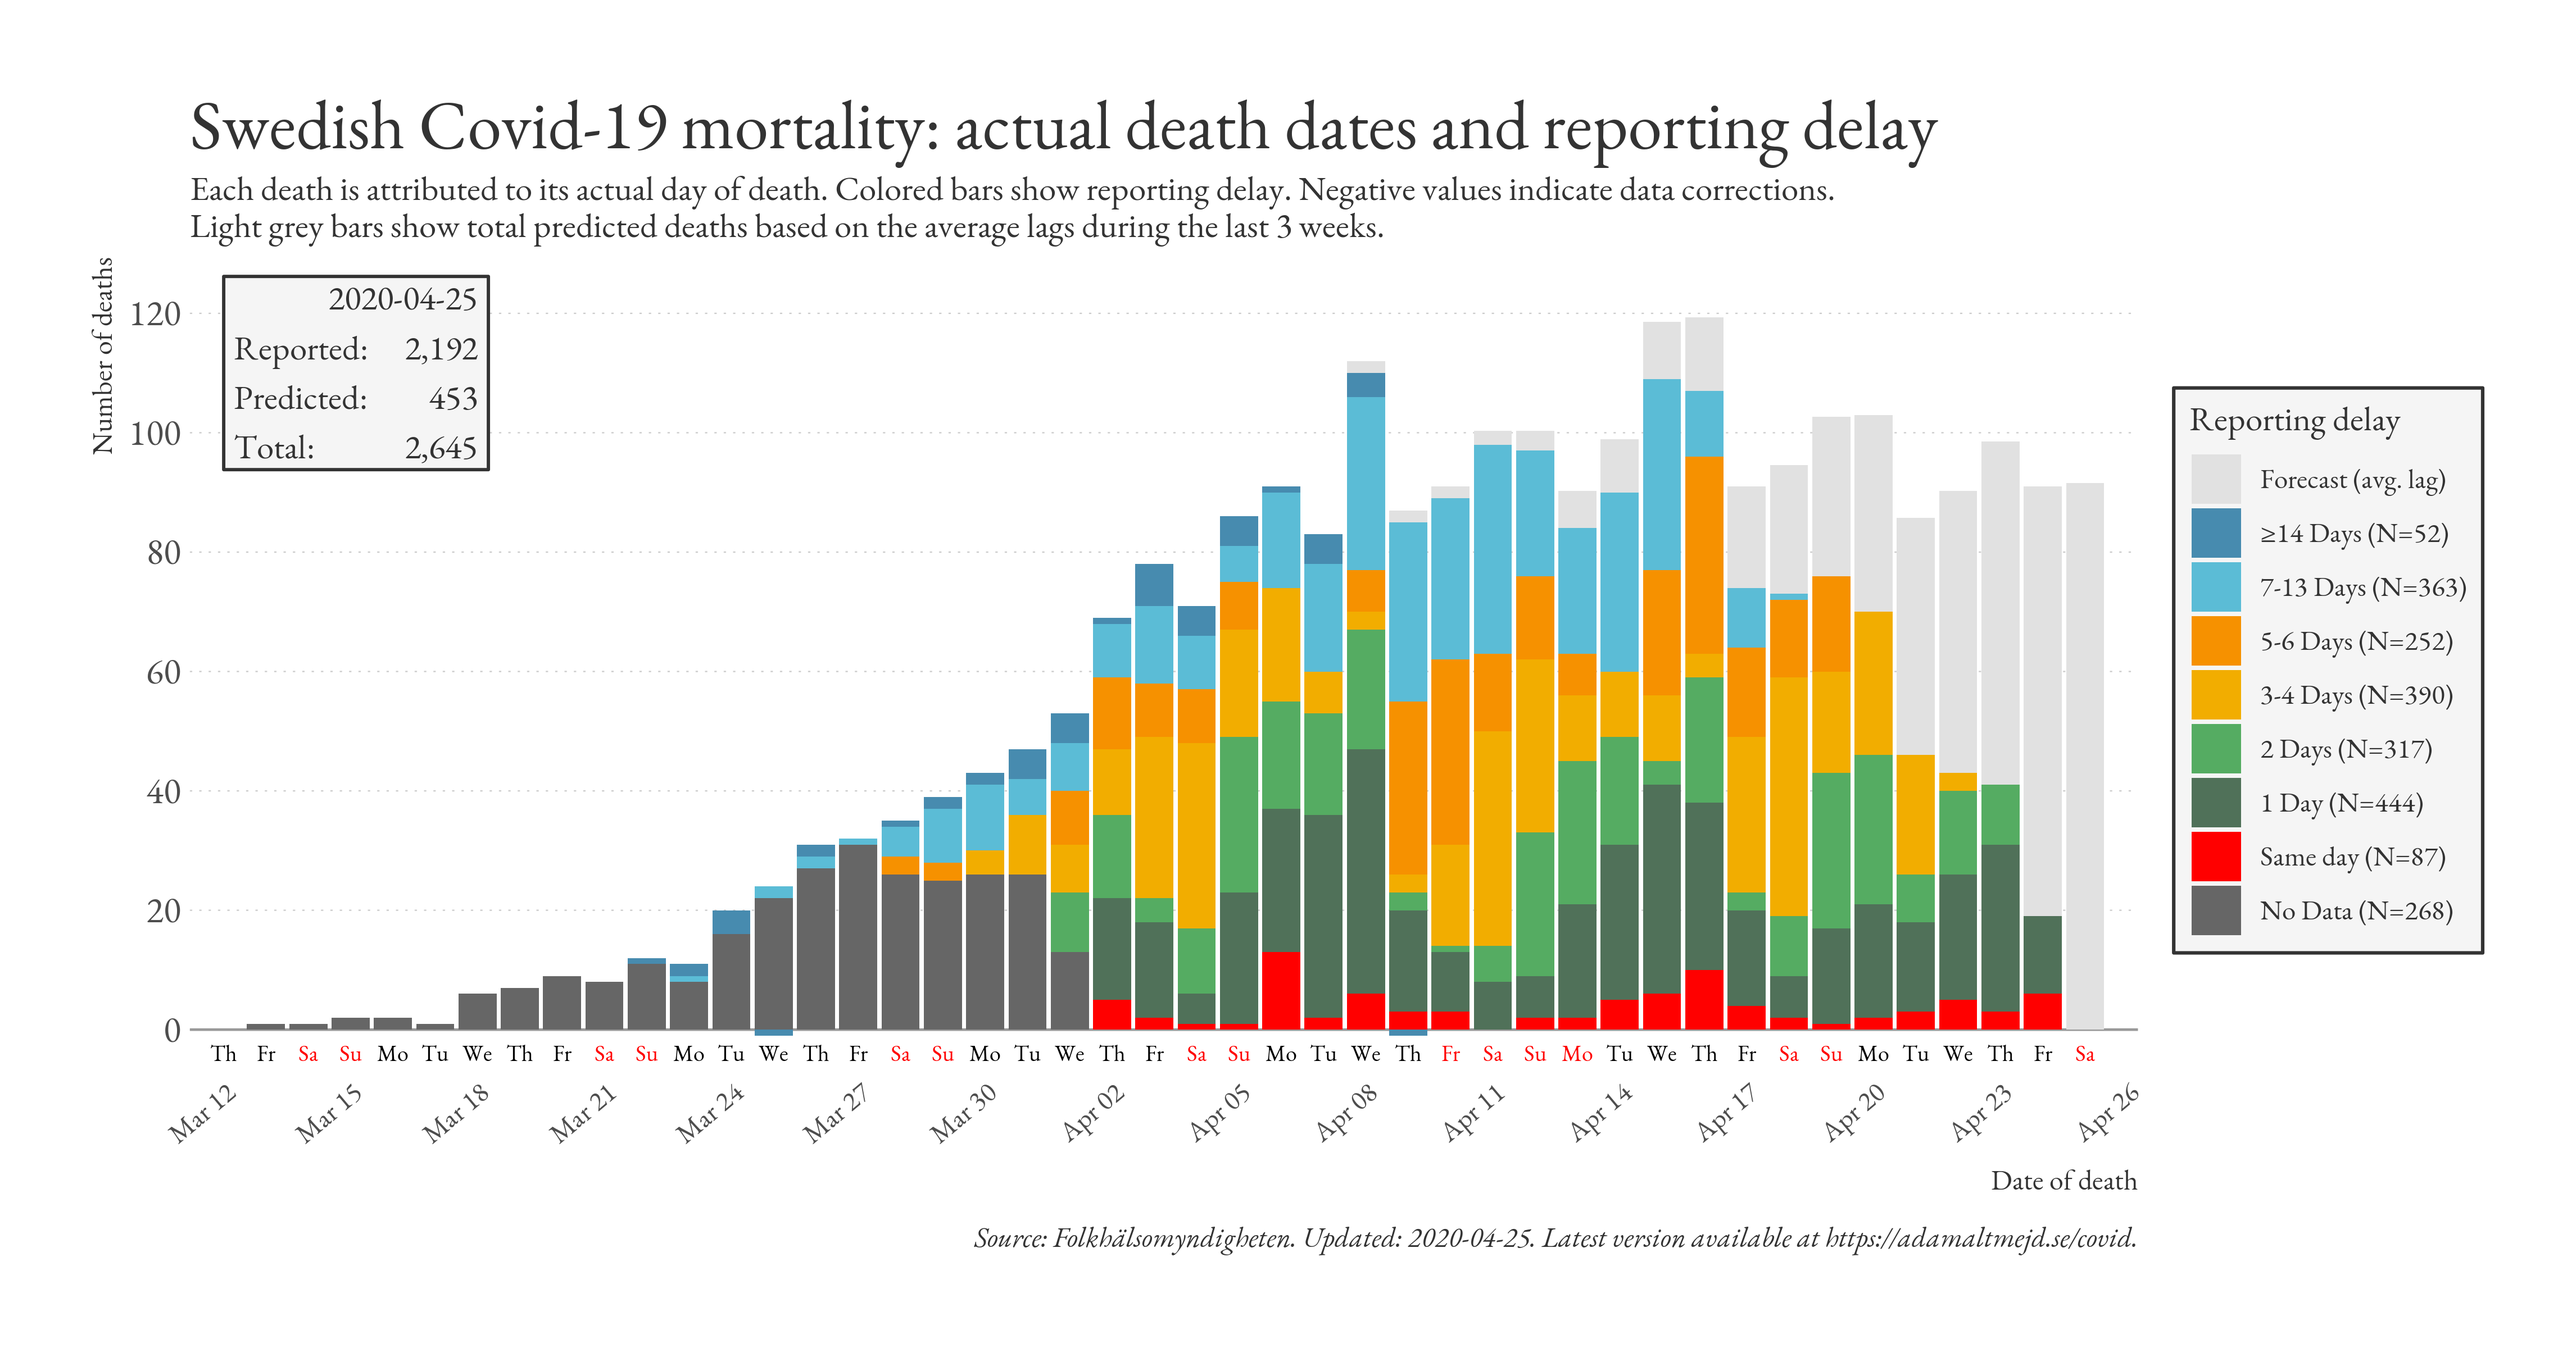
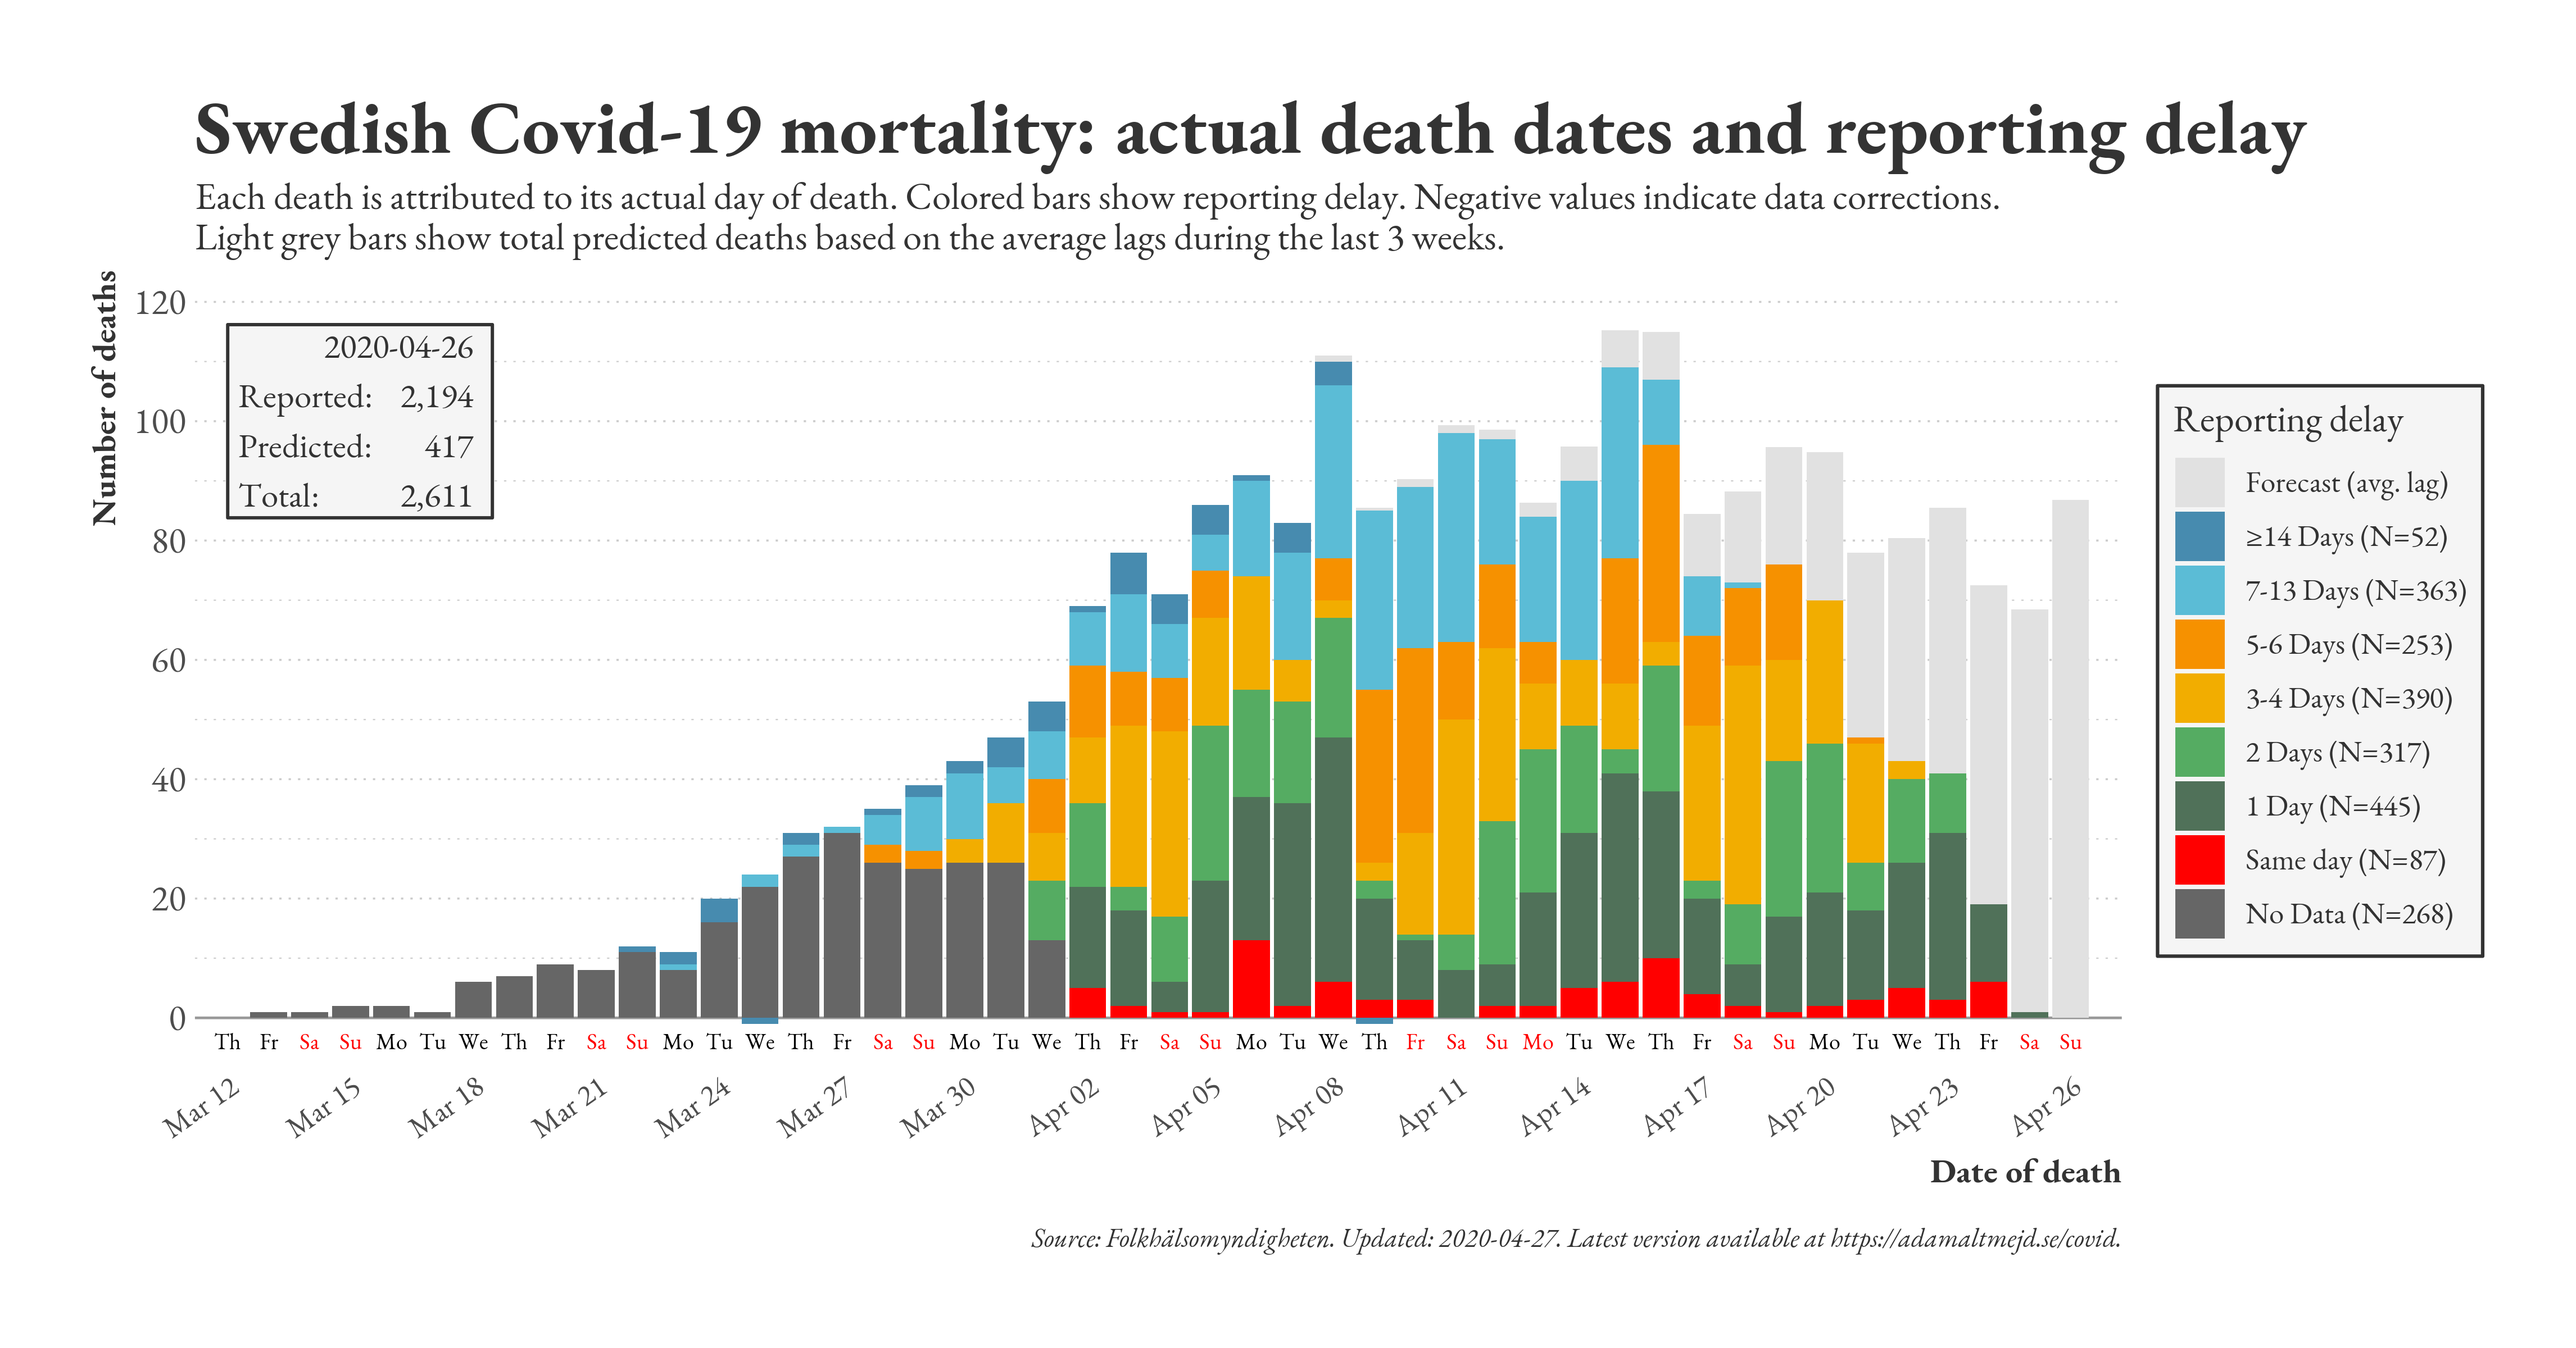
first attempt at a lag trend plot

diff --git a/docs/index.md b/docs/index.md
@@ -2,8 +2,9 @@
 layout: page
 title: Reported Covid-19 deaths in Sweden
 author: Adam Altmejd
-date: 2020-04-25
+date: 2020-04-27
 ---
 
-![Graph of Swedish Covid-19 deaths with reporting delay.](deaths_lag_sweden_2020-04-25.png "Reporting delay in Swedish covid-19 deaths.")
+![Graph of Swedish Covid-19 deaths with reporting delay.](deaths_lag_sweden_2020-04-27.png "Swedish Covid-19 deaths.")
+![Graph of Swedish Covid-19 reporting delay in daily deaths.](lag_trend_sweden_2020-04-27.png "Trend in Swedish Covid-19 mortality reporting delay.")
 For code and data, visit <https://github.com/adamaltmejd/covid>.
